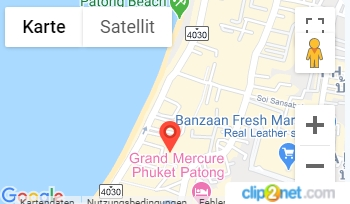
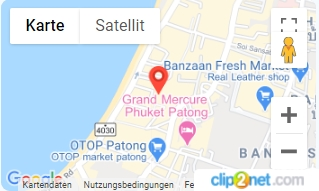
changed google map

diff --git a/index.html b/index.html
@@ -266,7 +266,13 @@
               <!-- /.button booking__button -->
             </div>
             <!-- /.booking -->
-            <div class="google-map" id="map"></div>
+            <div class="google-map" id="map">
+              <img
+                src="img/google-map.jpg"
+                alt="foto: map"
+                class="google-map"
+              />
+            </div>
             <!-- /.google-map -->
           </div>
           <!-- /.hotel-price-map -->
